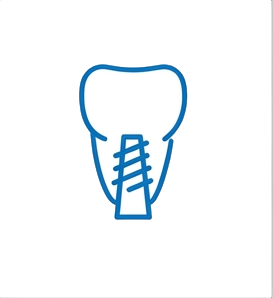
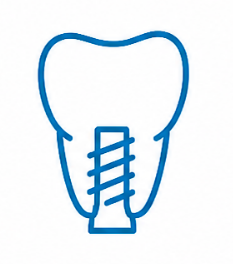
phase 5

Changed region(s): [[0.1502, 0.0909, 0.8412, 0.9091], [0.9914, 0.0, 1.0, 1.0]]

diff --git a/AsthaIndex.html b/AsthaIndex.html
@@ -136,7 +136,7 @@
                 </div>
 
                 <div class="service-item">
-                    <img src="icons/gum.png">
+                    <img src="images/Gum.png">
                     <p>GUM</p>
                 </div>
 
@@ -146,27 +146,27 @@
                 </div>
 
                 <div class="service-item">
-                    <img src="icons/xray.png">
+                    <img src="images/X-Ray.png">
                     <p>X-RAY</p>
                 </div>
 
                 <div class="service-item">
-                    <img src="icons/whitening.png">
+                    <img src="images/White.png">
                     <p>WHITENING</p>
                 </div>
 
                 <div class="service-item">
-                    <img src="icons/prevention.png">
+                    <img src="images/Prevention.png">
                     <p>PREVENTION</p>
                 </div>
 
                 <div class="service-item">
-                    <img src="icons/caries.png">
+                    <img src="images/Caries.png">
                     <p>CARIES</p>
                 </div>
 
                 <div class="service-item">
-                    <img src="icons/idoc.png">
+                    <img src="images/Idoctor.png">
                     <p>IDOCTOR</p>
                 </div>
 
